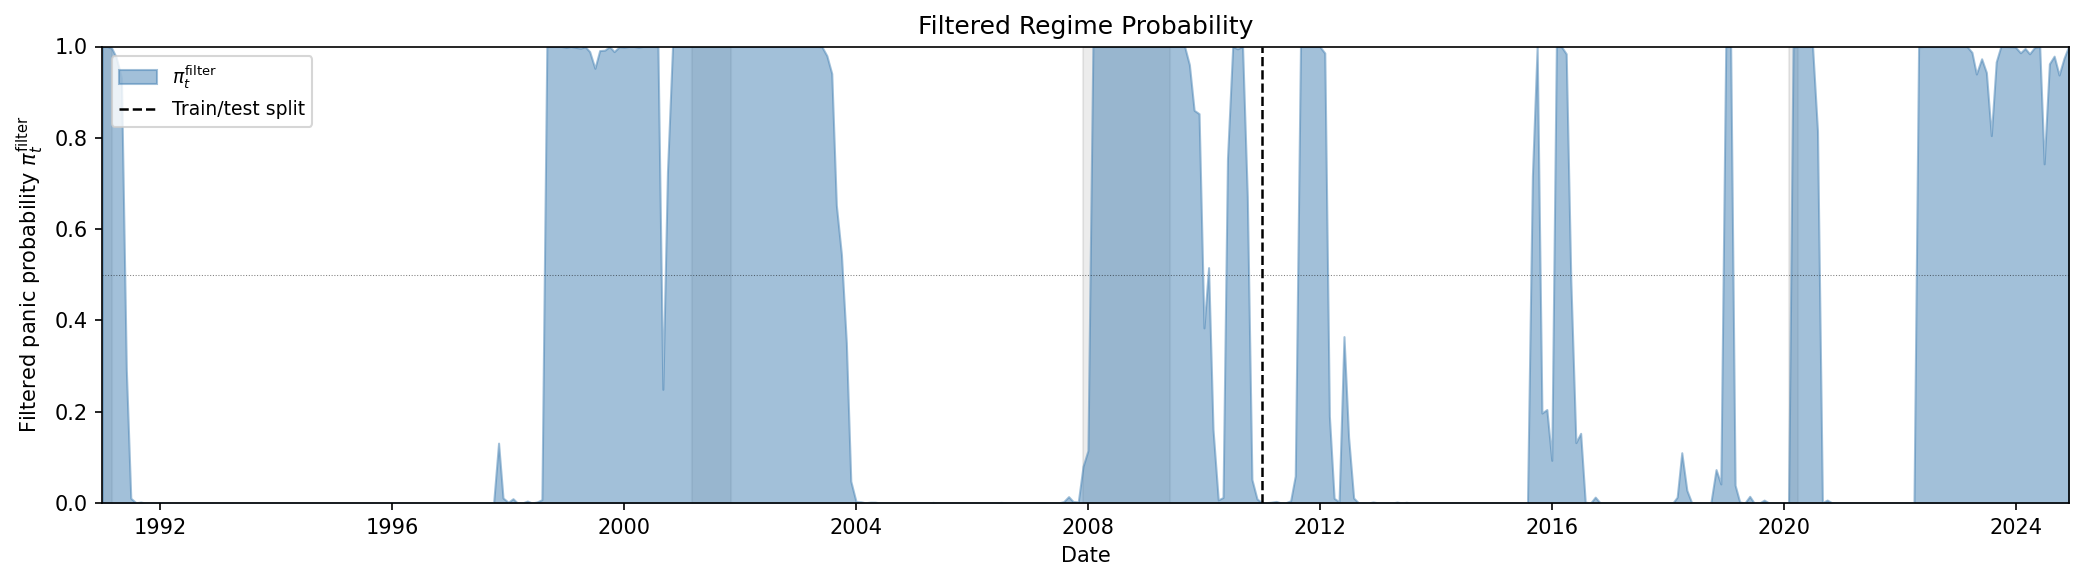
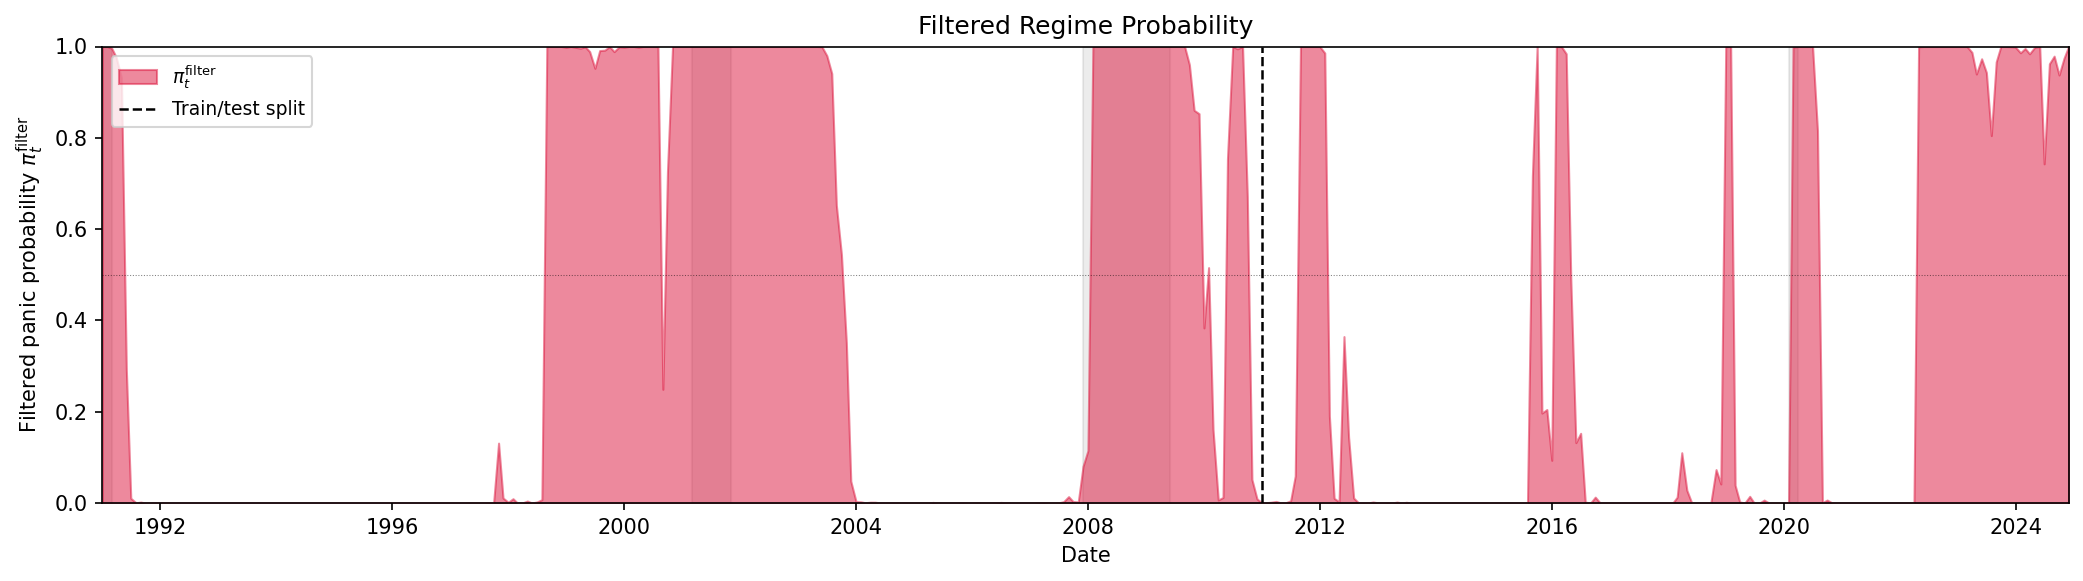
Match regime probability color (crimson) across all plots

diff --git a/scripts/hmm_model.py b/scripts/hmm_model.py
@@ -650,7 +650,7 @@ axes[0].axhline(0.5, color='black', linewidth=0.5, linestyle=':')
 axes[0].legend(fontsize=8, loc='upper left')
 shade_crises(axes[0], label=True)
 
-axes[1].fill_between(dates, pi_filter_full, alpha=0.6, color='steelblue')
+axes[1].fill_between(dates, pi_filter_full, alpha=0.5, color='crimson')
 axes[1].axvline(pd.Timestamp('2011-01-01'), color='black', linewidth=1, linestyle='--')
 axes[1].set_ylabel('Filtered π_panic (trading signal)', fontsize=9)
 axes[1].set_ylim(0, 1)

diff --git a/scripts/regenerate_thesis_plots.py b/scripts/regenerate_thesis_plots.py
@@ -61,7 +61,7 @@ def shade_nber(ax):
 
 fig, ax = plt.subplots(figsize=(14, 4))
 
-ax.fill_between(dates, pi_filter_full, alpha=0.5, color='steelblue', label=r'$\pi_t^{\mathrm{filter}}$')
+ax.fill_between(dates, pi_filter_full, alpha=0.5, color='crimson', label=r'$\pi_t^{\mathrm{filter}}$')
 ax.axvline(pd.Timestamp('2011-01-01'), color='black', linewidth=1.2,
            linestyle='--', label='Train/test split')
 ax.axhline(0.5, color='black', linewidth=0.5, linestyle=':', alpha=0.5)
